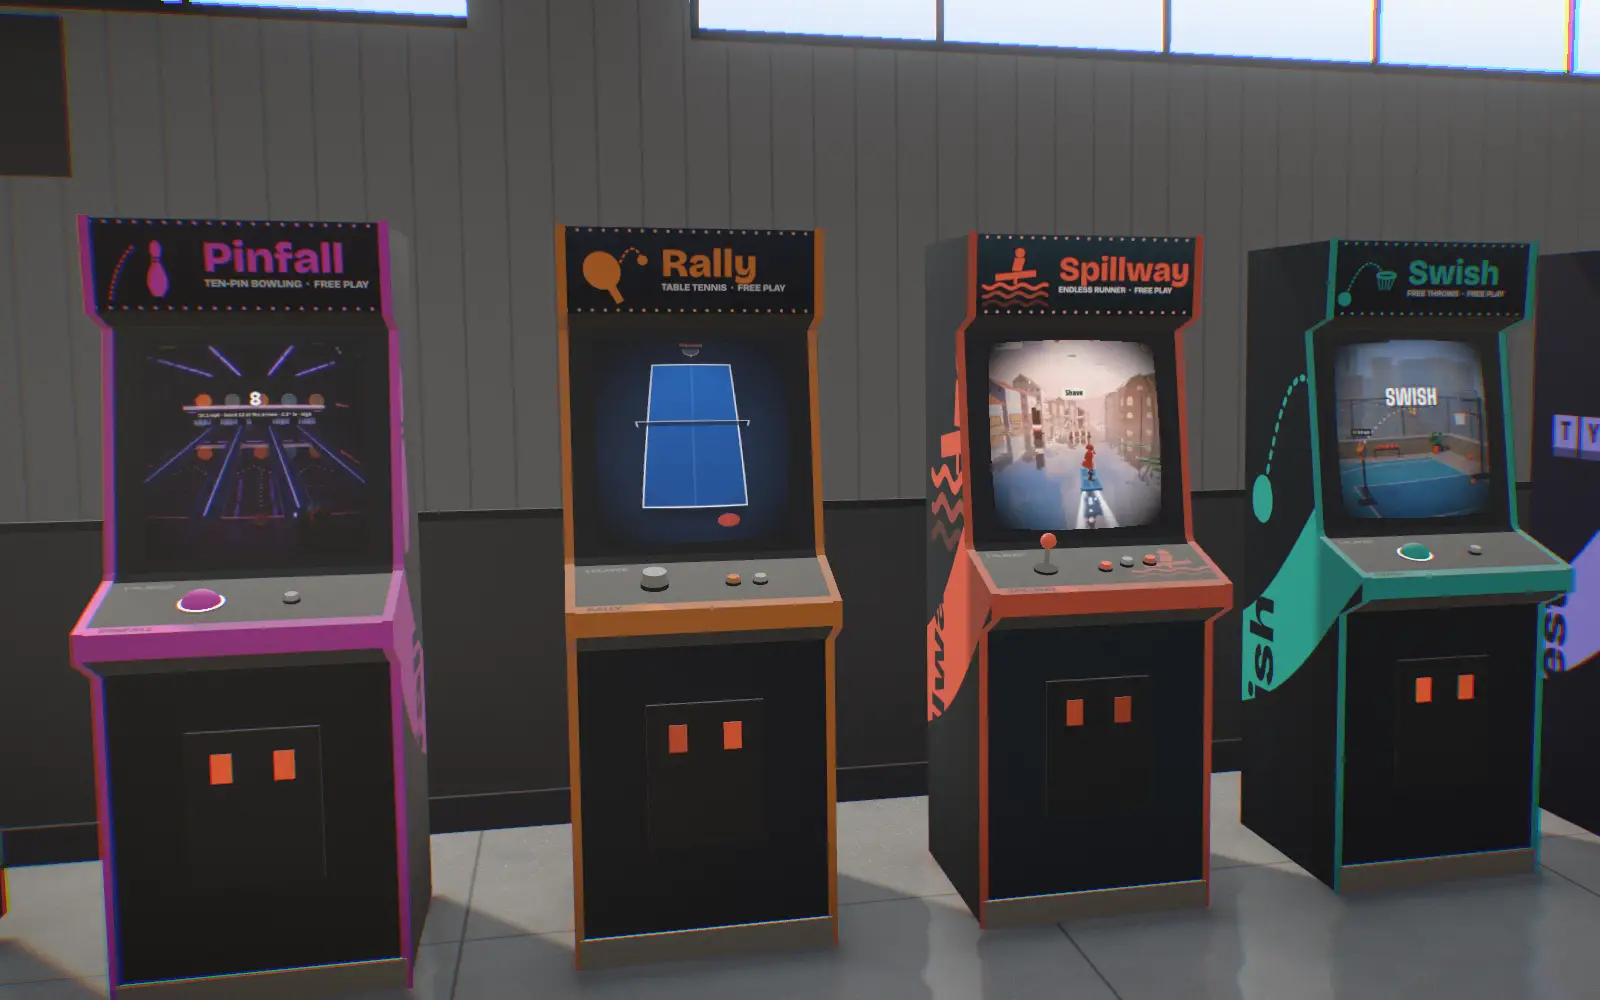
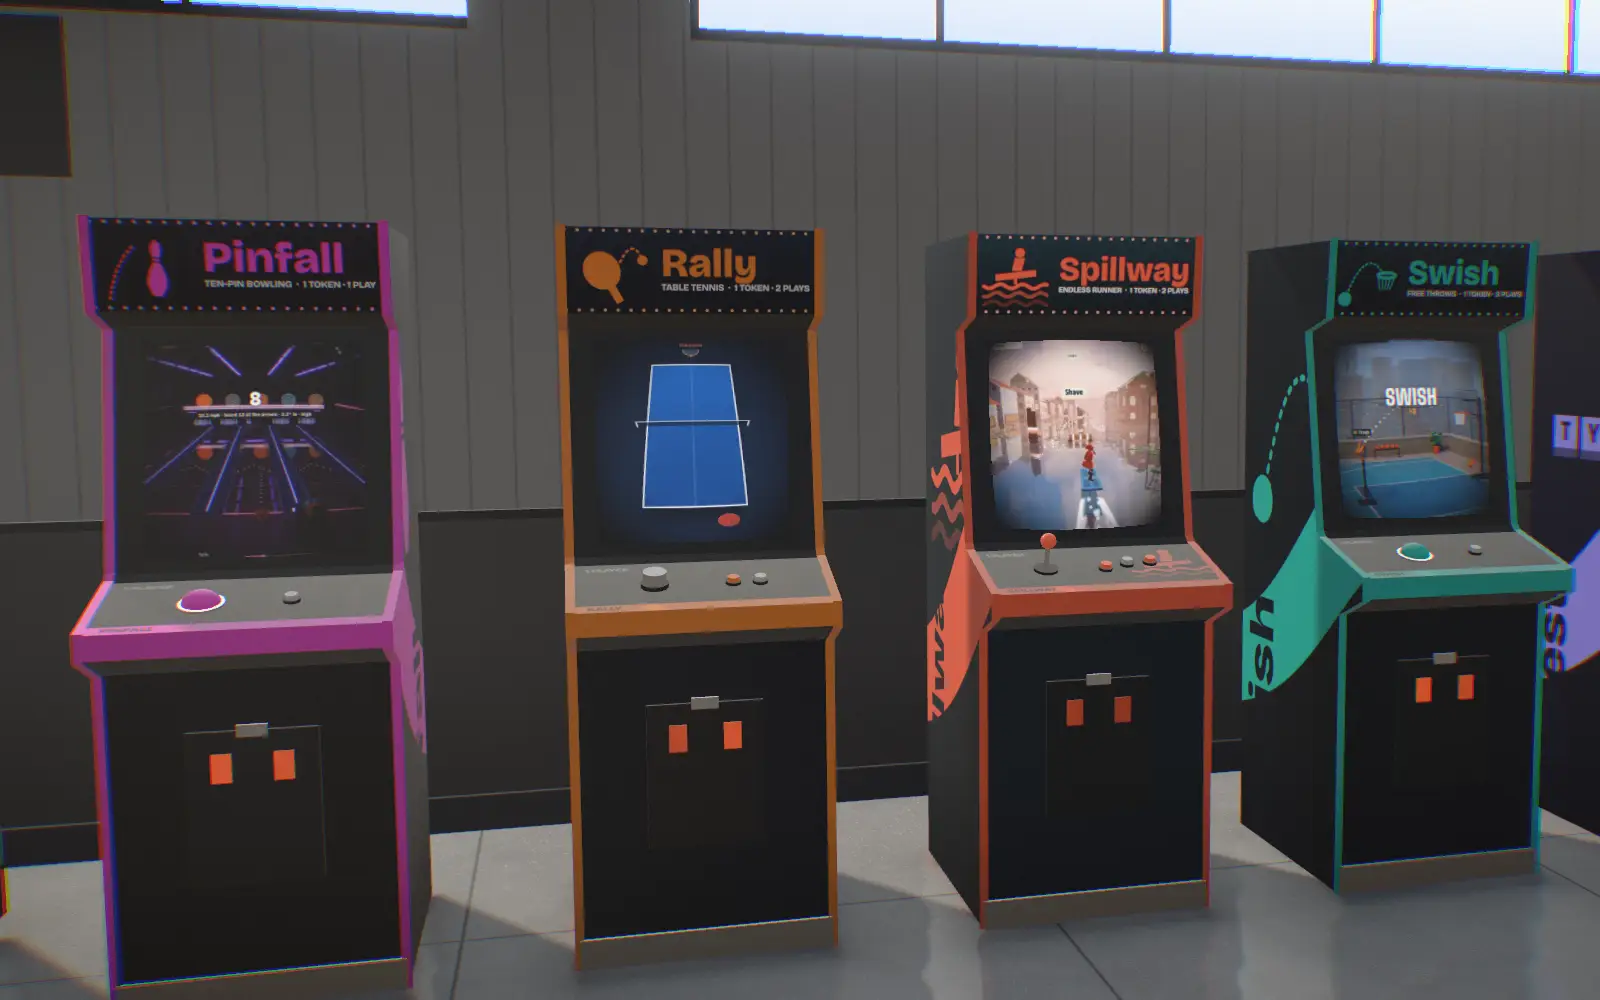
Re-photograph the hall and the cards with the change machine and new neon
The pass host now inherits visibility, so hiding the top bar hides the chip.

diff --git a/scripts/hall.ts b/scripts/hall.ts
@@ -16,6 +16,10 @@ mkdirSync('public/hall', { recursive: true });
 const browser = await chromium.launch({ args: ['--use-angle=metal', '--enable-gpu', '--ignore-gpu-blocklist'] });
 for (const [theme, scheme] of [['day', 'light'], ['night', 'dark']] as const) {
   const page = await browser.newPage({ viewport: { width: 1600, height: 1000 }, colorScheme: scheme });
+  // A player card already claimed today, so neither the welcome nor the day's tokens get in the picture.
+  const now = Date.now(), day = Math.floor(now / 86_400_000);
+  const card = { v: 1, tag: 'Velvet Otter', tok: 12, at: now, day, st: 1, cr: {}, paid: {}, log: [], seen: [], b: {}, dd: {} };
+  await page.context().addCookies([{ name: 'arcade_card', value: Buffer.from(JSON.stringify(card)).toString('base64url'), url: base }]);
   await page.goto(`${base}/#spillway`, { waitUntil: 'load' });
   // Hidden but still laid out, so the camera frames the room exactly as a visitor sees it behind the interface.
   await page.addStyleTag({ content: '.hall__top, .hall__cards, .hall__row, .hall__hint, .coach, .attract { visibility: hidden !important; }' });

diff --git a/src/pass/style.css b/src/pass/style.css
@@ -1,6 +1,7 @@
 /* The pass: a night-glass player card that looks the same in every machine. --a is the machine's own bright. */
 :host {
   all: initial;
+  visibility: inherit; /* hidden with its parent, like any other element */
   --a: #ffcf3d; --ag: #141412;
   --ink: #f4f1ea; --mute: #a9a59b; --line: rgb(255 255 255 / 0.1);
   --gold: #f6c53d; --gold-ink: #2a1c00;
